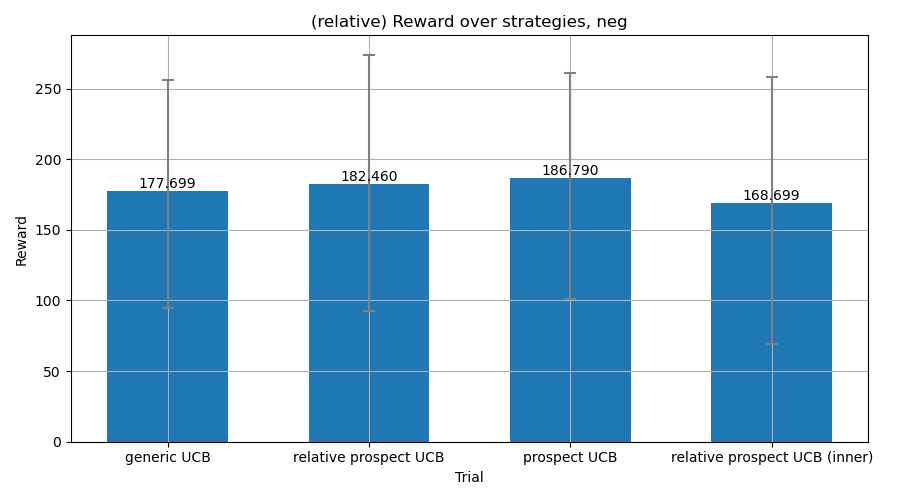
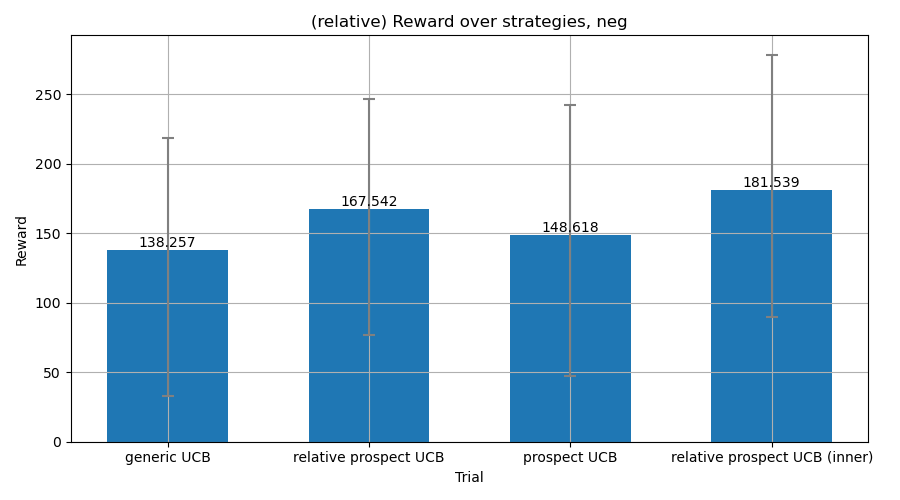
feat: split fitting into train.py and extract shared modules

diff --git a/test.py b/test.py
@@ -1,153 +1,19 @@
 import numpy as np
+import json
+import itertools
 import matplotlib.pyplot as plt
 from scipy.stats import ttest_ind
-from scipy.optimize import minimize
-import itertools
-import optuna
-optuna.logging.set_verbosity(optuna.logging.WARNING)
 
-# Env setting
+from variable import variance, noise, horizon, num, mean, expected_mean, tot_env, env_name, strategy, variables, init
+from function import prospect, select_arm, get_action, simulate
 
-np.random.seed(42)
-variance = 10
-noise = 10
-horizon = 20
-num = 100
-mean = [50, 0, -50]
-expected_mean = [50, 0, -50]
+with open("best_params.json", "r") as f:
+    best_params = json.load(f)
 
-mix_env = np.random.normal(mean[1], variance, 10 * num).reshape(num, 10)
-pos_env = mix_env + 50
-neg_env = mix_env - 50
-#pos_env = np.random.normal(mean[0], variance, 10 * num).reshape(num, 10)
-#neg_env = np.random.normal(mean[2], variance, 10 * num).reshape(num, 10)
-tot_env = [pos_env, mix_env, neg_env]
-env_name = ['pos', 'mix', 'neg']
-
-def select_arm(n, env) : # select bandit w/ noise
-    return env[n] + np.random.normal(0, noise)
-
-ex = mix_env[0, :]
-plt.figure(figsize=(5, 2))
-plt.title("sample multi armed bandit")
-plt.imshow(ex.reshape(1, -1), origin='lower', cmap = 'coolwarm')
-for i in range(10) :
-    plt.text(i, 0, f"{ex[i]:.2f}", ha='center', va='center', color='black', fontsize=7)
-plt.xticks([i for i in range(10)])
-plt.yticks([])
-plt.savefig('images/sample env.png')
-
-
-# Agent simulation - Kalman Filter based
-strategy = ['generic UCB', 'relative prospect UCB', 'prospect UCB', 'relative prospect UCB (inner)']
-def simulate(option, env, mean, hori = horizon) :
-    al, rl = [], []
-    result, switch, directed, random = 0, 0, 0, 0
-
-    mu_post = np.array([mean for i in range(10)])
-    sigma_post = np.array([noise for i in range(10)])
-    sigma_0 = noise
-
-    for t in range(hori):
-        action = get_action(mu_post, sigma_post, option, result)
-        reward = select_arm(action, env)
-
-        al.append(action)
-        rl.append(reward)
-        result += reward
-
-        K_t = sigma_post[action] / (sigma_post[action] + sigma_0)
-        sigma_post[action] = (1-K_t) * sigma_post[action]
-        mu_post[action] += K_t * (reward - mu_post[action])
-
-    for t in range(1, hori) :
-        if(al[t-1] != al[t]) :
-            switch += 1 / (hori-1)
-
-    return al, rl, result, switch
-
-def prospect(x, alpha, lam):
-    if isinstance(x, (float, int)):
-        if x >= 0:
-            return  np.power(x, alpha)
-        else:
-            return  -lam * np.power(-x, alpha)
-    elif isinstance(x, np.ndarray):
-        util = np.empty_like(x, dtype=float)
-
-        pos = x >= 0
-        neg = x < 0
-
-        util[pos] = np.power(x[pos], alpha)
-        util[neg] = -lam * np.power(-x[neg], alpha)
-
-        return util
-
-def get_action(mean, variance, option, result, alpha=0.88, beta = 1, lam=2.25) :
-    if (option == 0) : # generic UCB
-        return np.argmax(mean + beta * variance)
-    elif (option == 1) : # relatvie prospect UCB
-        return np.argmax(prospect(mean + result, alpha=alpha, lam=lam) - prospect(result, alpha=alpha, lam=lam) + beta * variance)
-    elif (option == 2) : # prospect UCB
-        return np.argmax(prospect(mean, alpha=alpha, lam=lam) + beta * variance)
-    elif (option == 3) : # relative prospect UCB (inner)
-        return np.argmax(prospect(mean + beta * variance + result, alpha=alpha, lam=lam) - prospect(result, alpha=alpha, lam=lam))
- 
-    return 0
-
-def reward(alpha, beta, lam, m, v, option, e) :
-
-    tot = 0
-
-    for i in range(num) :
-        cur = 0
-        env = tot_env[e][i, :]
-        mu_post = np.array([m for i in range(10)])
-        sigma_post = np.array([v for i in range(10)])
-        sigma_0 = v
-
-        for t in range(horizon):
-            action = get_action(mu_post, sigma_post, option, cur, alpha = alpha, beta = beta, lam = lam)
-            reward = select_arm(action, env)
-            cur += reward
-
-            K_t = sigma_post[action] / (sigma_post[action] + sigma_0)
-            sigma_post[action] = (1-K_t) * sigma_post[action]
-            mu_post[action] += K_t * (reward - mu_post[action])
-            
-        tot += cur
-    
-    return tot
-
-for st, name in enumerate(strategy) :
-    en = 1
-
-    def objective(trial):
-        if st != 0 :
-            alpha = trial.suggest_float('alpha', 0.1, 3.0)
-            beta = trial.suggest_float('beta', -10, 10)
-            lamb = trial.suggest_float('lambda', 1.0, 10.0)
-            m = trial.suggest_float('mean', -100.0, 100.0)
-            n = trial.suggest_float('noise', 0.1, 20.0)
-        else :
-            alpha = 1
-            beta = trial.suggest_float('beta', -10, 10)
-            lamb = 1
-            m = trial.suggest_float('mean', -100.0, 100.0)
-            n = trial.suggest_float('noise', 0.1, 20.0)
-            
-        return reward(alpha, beta, lamb, m, n, st, en)
-
-    study = optuna.create_study(direction='maximize')
-    study.optimize(objective, n_trials=1000)
-
-    print("[" + name + "]")
-    print("Best parameters:", study.best_params)
-
-"""
 result_r = [[], [], []] # env * strategy * trial * horizon
 tot_r = [[], [], []] # env * strategy * trial
 switch = [[], [], []] # env * strategy * trial
+
 for i in range(4):
     for e in range(3):
         result_r[e].append([])
@@ -155,15 +21,24 @@ for i in range(4):
         switch[e].append([])
 
     for t in range(num):
-        for e in range(3):
+        for e in range(3):       
+            variable = []
+            dic = best_params[strategy[i]]
+
+            for n in variables :
+                if n in dic :
+                    variable.append(dic[n])
+                else :
+                    variable.append(init[n])
+
+            variable[3] = mean[e]
             env_input = tot_env[e][t, :]
-            _, r, total, s = simulate(i, env_input, expected_mean[e])
+            _, r, total, s = simulate(variable, i, env_input)
             result_r[e][i].append(np.cumsum(r))
             tot_r[e][i].append(total)
             switch[e][i].append(s)
+
 tot_r = np.array(tot_r)
-
-
 
 
 # Results
@@ -278,4 +153,3 @@ plt.grid(True, axis='y')
 plt.legend()
 plt.tight_layout()
 plt.savefig("images/grouped_switch_ratio_with_pvalues.png")
-"""

diff --git a/function.py b/function.py
@@ -1,0 +1,62 @@
+import numpy as np
+from variable import noise, horizon
+
+def select_arm(n, env) : # select bandit w/ noise
+    return env[n] + np.random.normal(0, noise)
+
+def prospect(x, alpha, lam):
+    if isinstance(x, (float, int)):
+        if x >= 0:
+            return  np.power(x, alpha)
+        else:
+            return  -lam * np.power(-x, alpha)
+    elif isinstance(x, np.ndarray):
+        util = np.empty_like(x, dtype=float)
+
+        pos = x >= 0
+        neg = x < 0
+
+        util[pos] = np.power(x[pos], alpha)
+        util[neg] = -lam * np.power(-x[neg], alpha)
+
+        return util
+    
+def get_action(mean, variance, option, result, alpha=0.88, beta = 1, lam=2.25) :
+    if (option == 0) : # generic UCB
+        return np.argmax(mean + beta * variance)
+    elif (option == 1) : # relatvie prospect UCB
+        return np.argmax(prospect(mean + result, alpha=alpha, lam=lam) - prospect(result, alpha=alpha, lam=lam) + beta * variance)
+    elif (option == 2) : # prospect UCB
+        return np.argmax(prospect(mean, alpha=alpha, lam=lam) + beta * variance)
+    elif (option == 3) : # relative prospect UCB (inner)
+        return np.argmax(prospect(mean + beta * variance + result, alpha=alpha, lam=lam) - prospect(result, alpha=alpha, lam=lam))
+ 
+    return 0
+
+def simulate(variables, option, env) :
+    alpha, beta, lam, mean, noise = variables[0], variables[1], variables[2], variables[3], variables[4]
+    
+    al, rl = [], []
+    result, switch, directed, random = 0, 0, 0, 0
+
+    mu_post = np.array([mean for i in range(10)])
+    sigma_post = np.array([noise for i in range(10)])
+    sigma_0 = noise
+
+    for t in range(horizon):
+        action = get_action(mu_post, sigma_post, option, result, alpha = alpha, beta = beta, lam = lam)
+        reward = select_arm(action, env)
+
+        al.append(action)
+        rl.append(reward)
+        result += reward
+
+        K_t = sigma_post[action] / (sigma_post[action] + sigma_0)
+        sigma_post[action] = (1-K_t) * sigma_post[action]
+        mu_post[action] += K_t * (reward - mu_post[action])
+
+    for t in range(1, horizon) :
+        if(al[t-1] != al[t]) :
+            switch += 1 / (horizon-1)
+
+    return al, rl, result, switch

diff --git a/train.py b/train.py
@@ -1,0 +1,55 @@
+import numpy as np
+import matplotlib.pyplot as plt
+from scipy.stats import ttest_ind
+from scipy.optimize import minimize
+import itertools
+import optuna
+import json
+optuna.logging.set_verbosity(optuna.logging.WARNING)
+
+from variable import variance, noise, horizon, num, mean, expected_mean, tot_env, env_name, strategy, variables, init, variable_init
+from function import prospect, select_arm, get_action, simulate
+
+# Env setting
+np.random.seed(42)
+
+# Agent simulation - Kalman Filter based
+def reward(variables, option, e) :
+    tot = 0
+
+    for i in range(num) :
+        cur = 0
+        env = tot_env[e][i, :]
+
+        _, _, cur, _ = simulate(variables, option, env)
+            
+        tot += cur
+    
+    return tot
+
+params = {}
+for st, name in enumerate(strategy) :
+    def objective(trial):
+        vari = []
+        dic = variable_init[name]
+        for n in variables :
+            if n in dic :
+                vari.append(trial.suggest_float(n, dic[n][0], dic[n][1]))
+            else :
+                vari.append(init[n])
+
+        ret = 0
+        for e in range(3) :
+            vari[3] = mean[e] # mean
+            ret += reward(vari, st, e)
+        return ret
+
+    study = optuna.create_study(direction='maximize')
+    study.optimize(objective, n_trials=3000)
+
+    print("[" + name + "]")
+    print("Best parameters:", study.best_params)
+    params[name] = study.best_params
+
+with open("best_params.json", "w") as f:
+    json.dump(params, f, indent=4)

diff --git a/variable.py b/variable.py
@@ -1,0 +1,44 @@
+import numpy as np
+import matplotlib.pyplot as plt
+
+variance = 10
+noise = 10
+horizon = 70
+num = 300
+mean = [50, 0, -50]
+expected_mean = [50, 0, -50]
+
+np.random.seed(42)
+mix_env = np.random.normal(mean[1], variance, 10 * num).reshape(num, 10)
+pos_env = mix_env + 50
+neg_env = mix_env - 50
+tot_env = [pos_env, mix_env, neg_env]
+env_name = ['pos', 'mix', 'neg']
+
+strategy = ['generic UCB', 'relative prospect UCB', 'prospect UCB', 'relative prospect UCB (inner)']
+
+variables = ['alpha', 'beta', 'lambda', 'mean', 'noise']
+init = {'alpha' : 0.88, 'beta' : 1, 'lambda' : 2.25, 'mean' : 0, 'noise' : 10}
+variable_init = {'generic UCB' : {
+        'beta' : [-10, 10], 'noise' : [0.1, 20.0] 
+    },
+    'relative prospect UCB' : { 
+        'alpha' : [0.1, 3.0], 'beta' : [-10, 10], 'lambda' : [1.0, 10.0], 'noise' : [0.1, 20.0]   
+    },
+    'prospect UCB' : { 
+        'alpha' : [0.1, 3.0], 'beta' : [-10, 10], 'lambda' : [1.0, 10.0], 'noise' : [0.1, 20.0]   
+    },
+    'relative prospect UCB (inner)' : { 
+        'alpha' : [0.1, 3.0], 'beta' : [-10, 10], 'lambda' : [1.0, 10.0], 'noise' : [0.1, 20.0]   
+    }
+}
+
+ex = mix_env[0, :]
+plt.figure(figsize=(5, 2))
+plt.title("sample multi armed bandit")
+plt.imshow(ex.reshape(1, -1), origin='lower', cmap = 'coolwarm')
+for i in range(10) :
+    plt.text(i, 0, f"{ex[i]:.2f}", ha='center', va='center', color='black', fontsize=7)
+plt.xticks([i for i in range(10)])
+plt.yticks([])
+plt.savefig('images/sample env.png')
